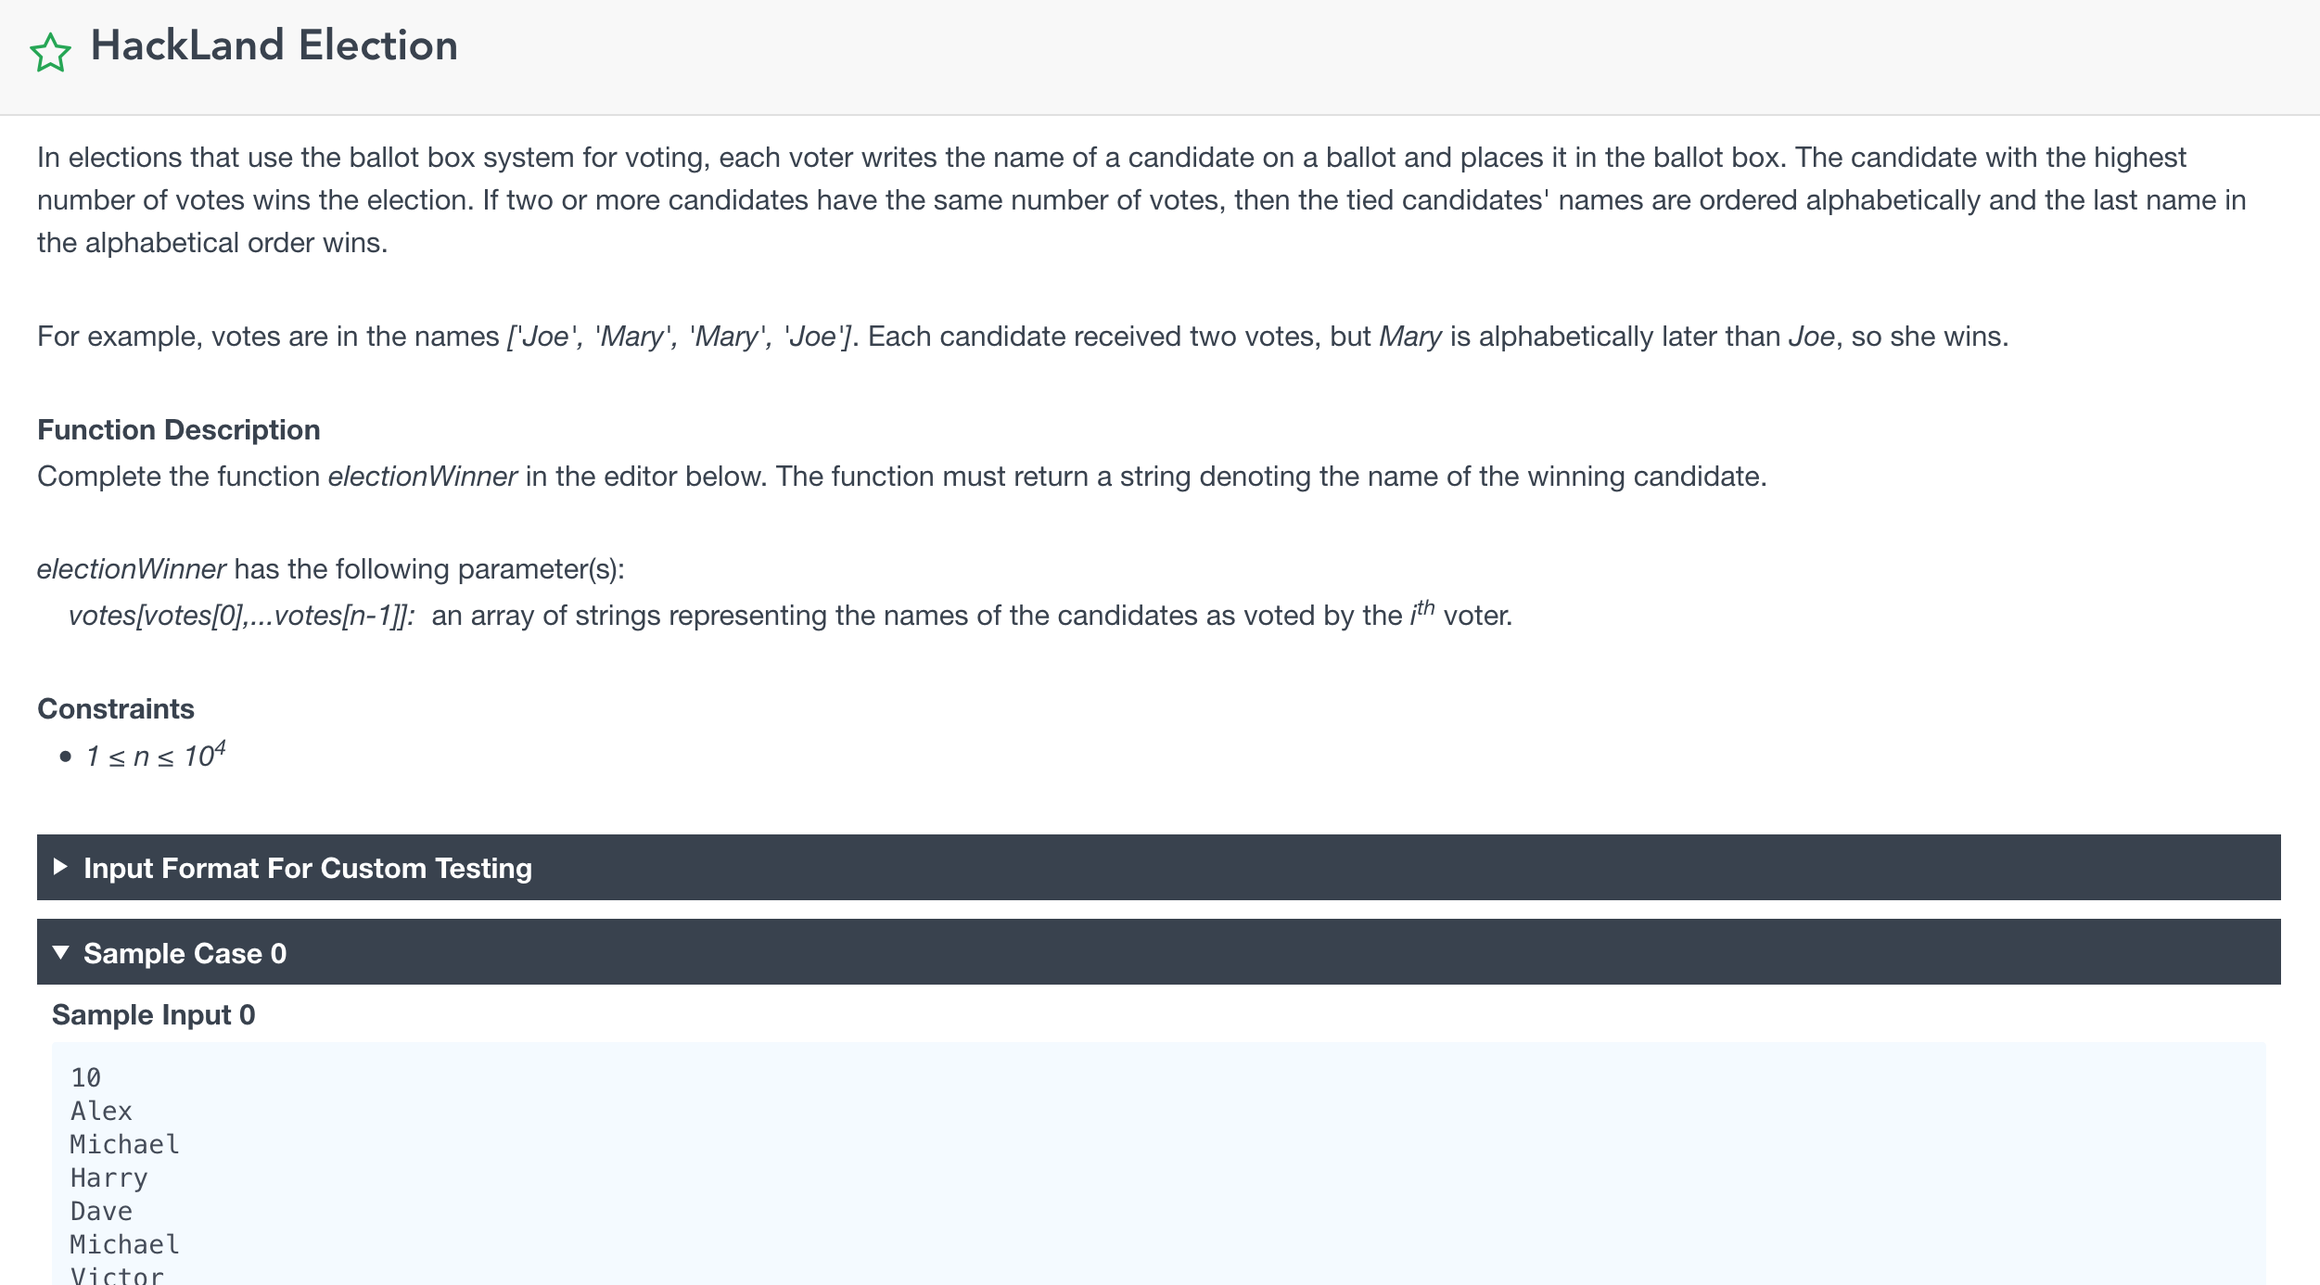
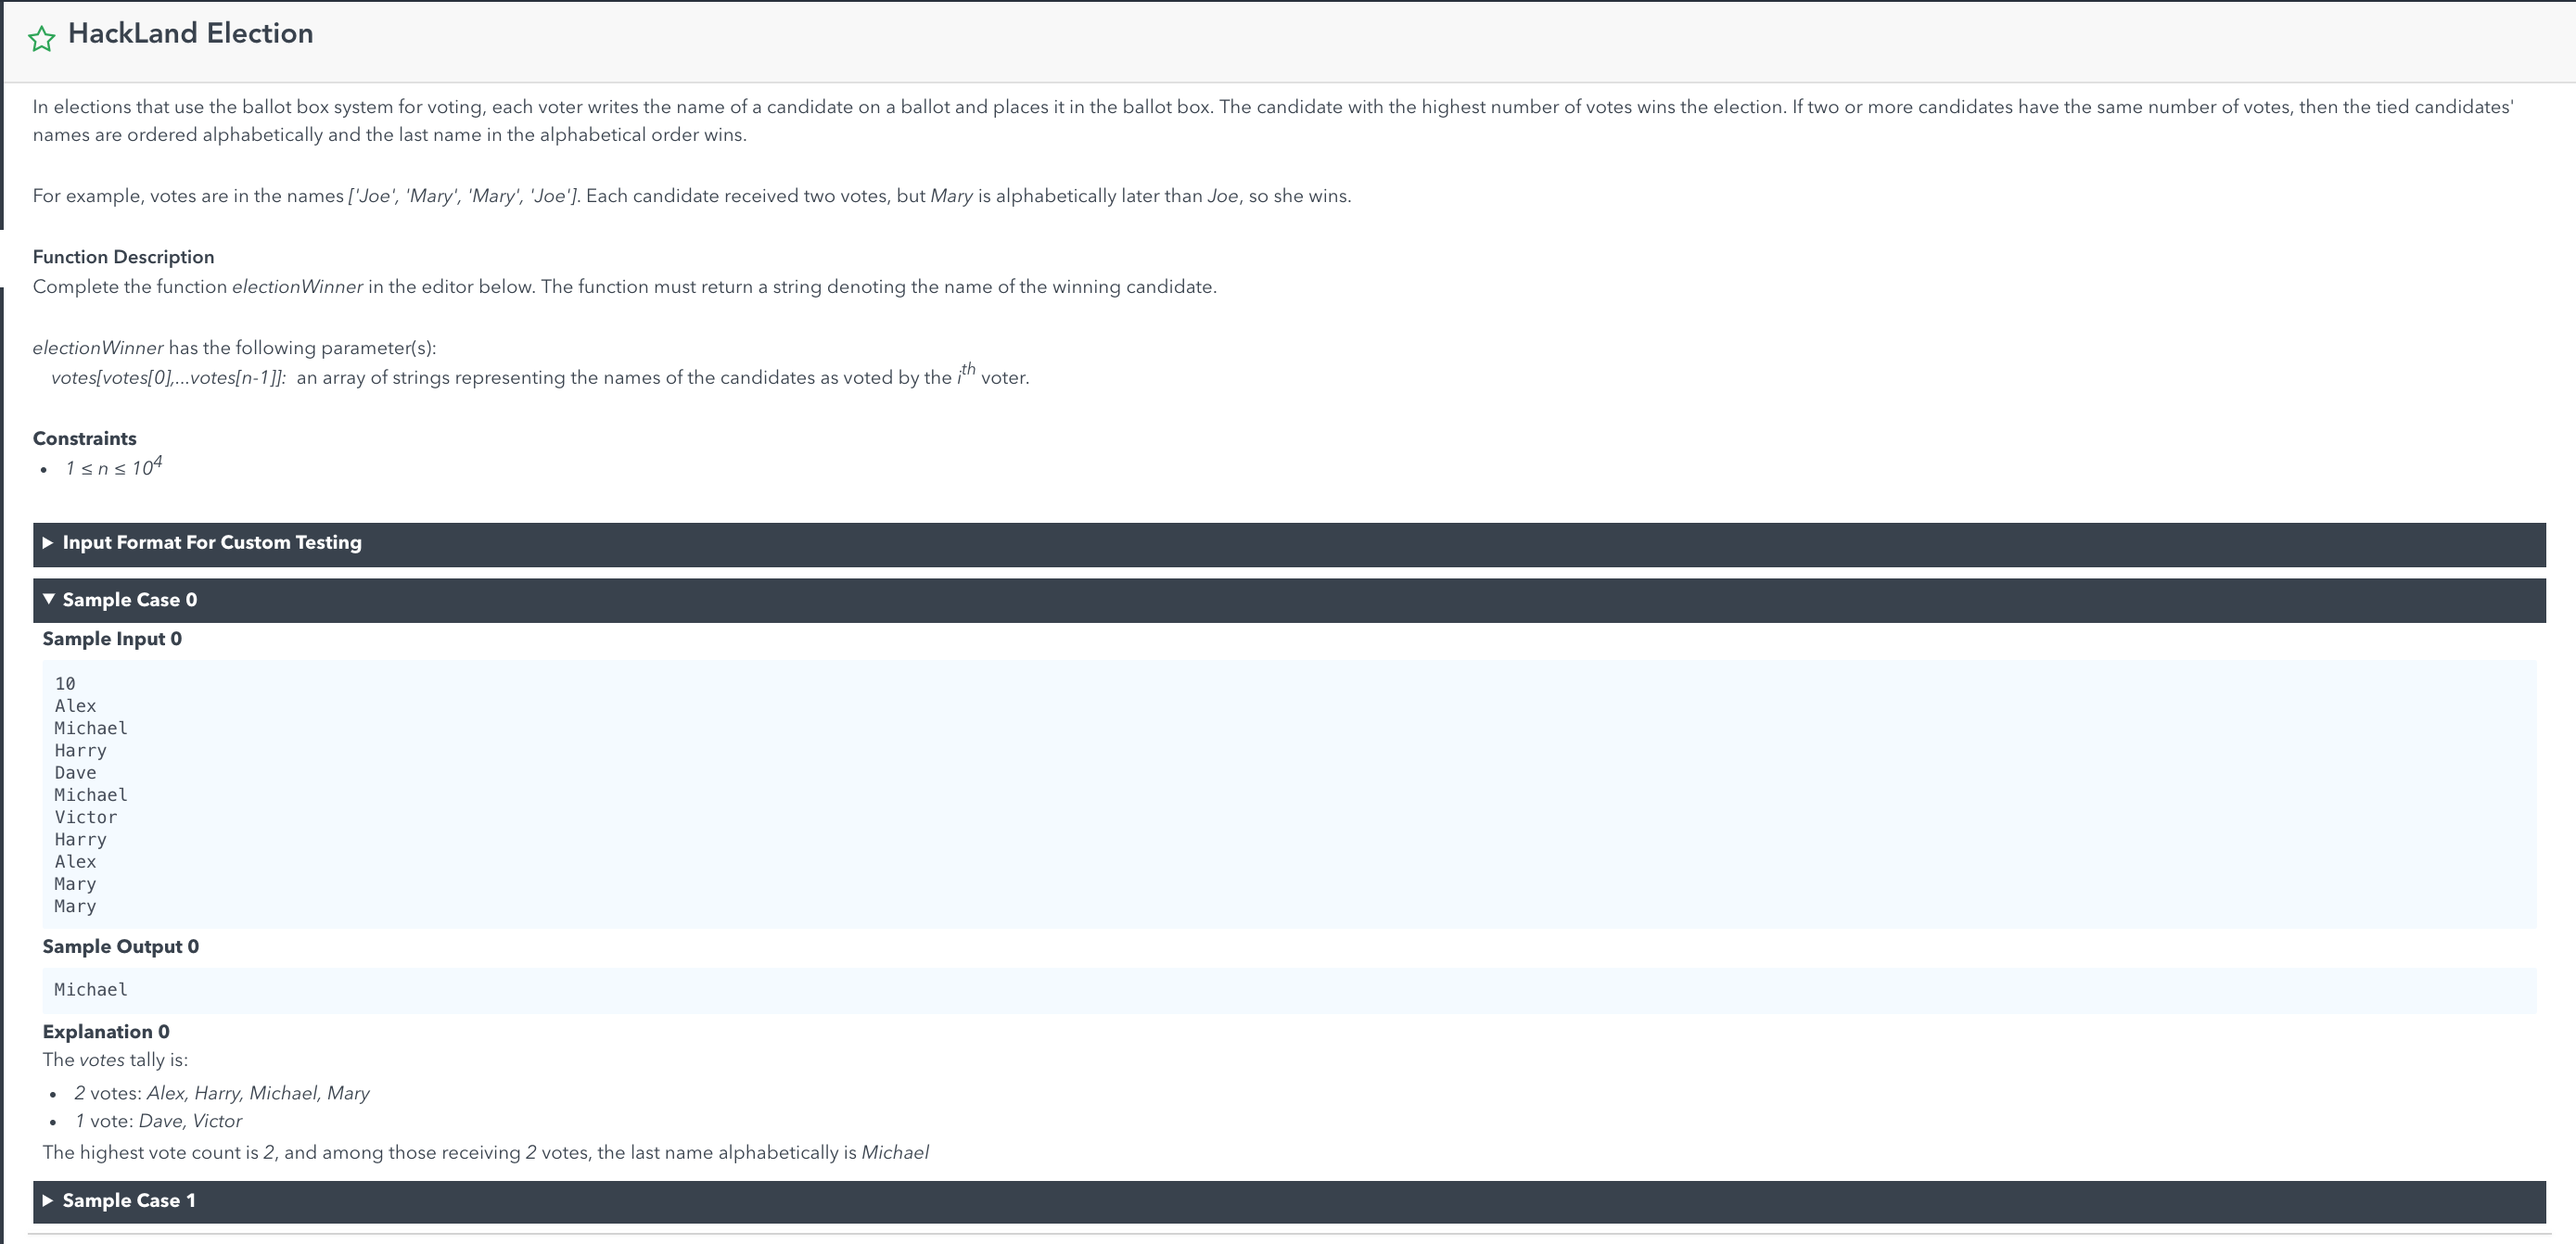
Add testcase

Changed region(s): [[0.0, 0.0, 0.9976, 1.0]]

diff --git a/misc/HackLandElection/hackLandElection.py b/misc/HackLandElection/hackLandElection.py
@@ -24,4 +24,8 @@ if __name__ == "__main__":
     while len(input_string_list) > 0:
         votes.append(input_string_list.popleft())
 
-    assert electionWinner(votes) == 'Mary'
+    filename = fileinput.filename()
+    if filename == 'input000.txt':
+        assert electionWinner(votes) == 'Mary'
+    elif filename == 'input001.txt':
+        assert electionWinner(votes) == 'Michael'
